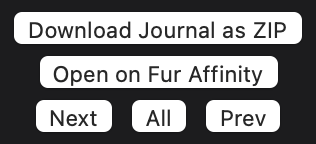
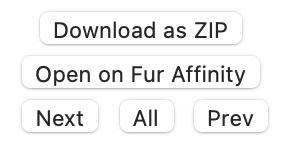
doc,readme - update journal and submission images

diff --git a/README.md b/README.md
@@ -307,7 +307,7 @@ counterpart, and navigate the other submissions from the author.
 
 The _Download File_ button opens the submission file in the current browser tab.
 
-The _Download Submission as ZIP_ button generates a ZIP file containing the submission file, submission thumbnail,
+The _Download as ZIP_ button generates a ZIP file containing the submission file, submission thumbnail,
 description HTML, and metadata in JSON format.
 
 The _Open on Fur Affinity_ button opens the submission on Fur Affinity
@@ -329,7 +329,7 @@ and navigate the other journals from the same user.
 
 ![journal controls](https://gitlab.com/MatteoCampinoti94/falocalrepo-server/-/raw/master/doc/journal.png)
 
-The _Download Journal as ZIP_ button generates a ZIP file containing the journal content HTML and metadata in JSON
+The _Download as ZIP_ button generates a ZIP file containing the journal content HTML and metadata in JSON
 format.
 
 The _Open on Fur Affinity_ button opens the journal on Fur Affinity
